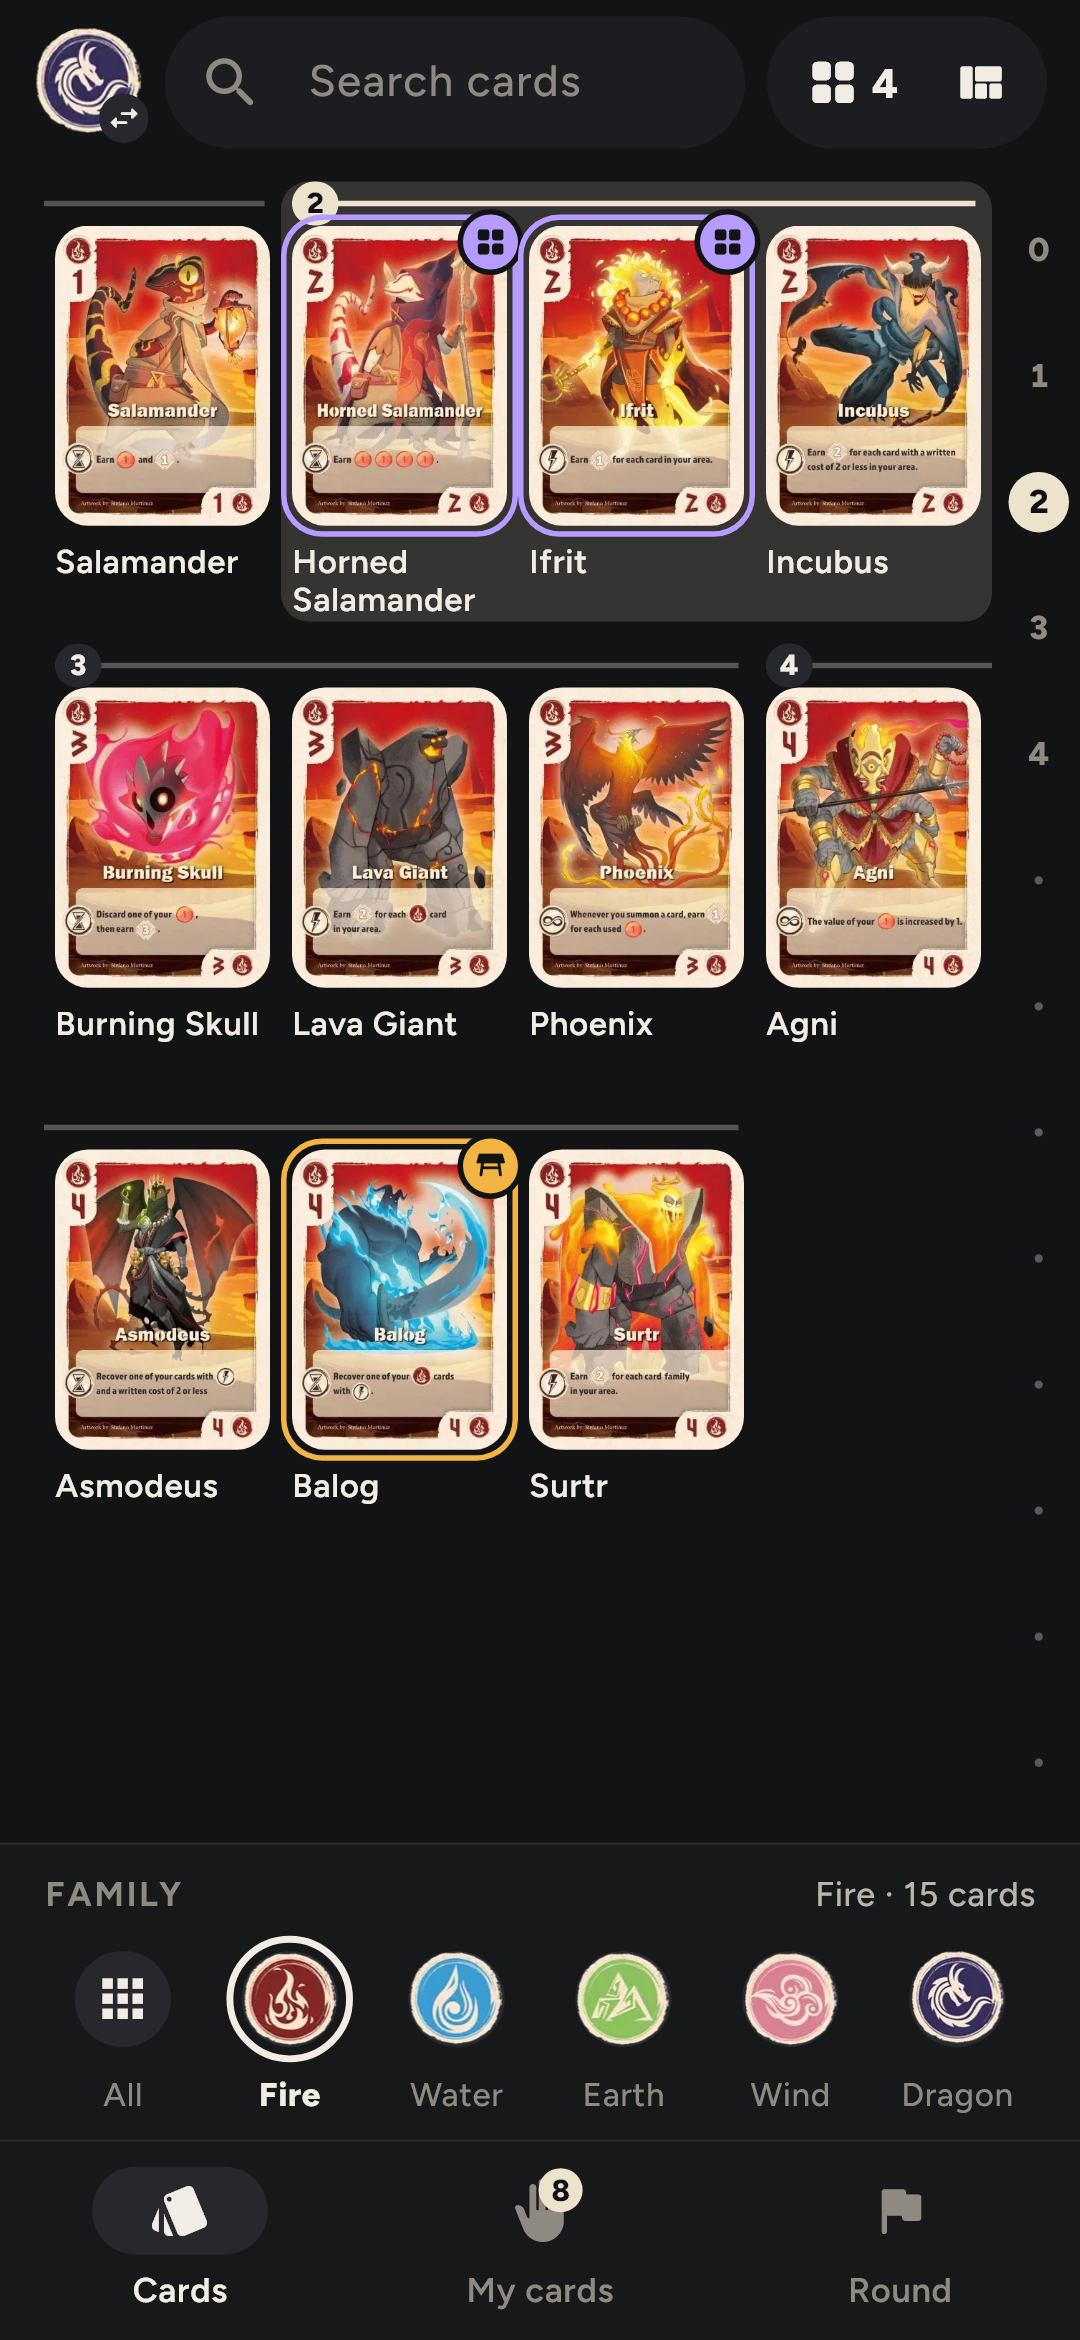
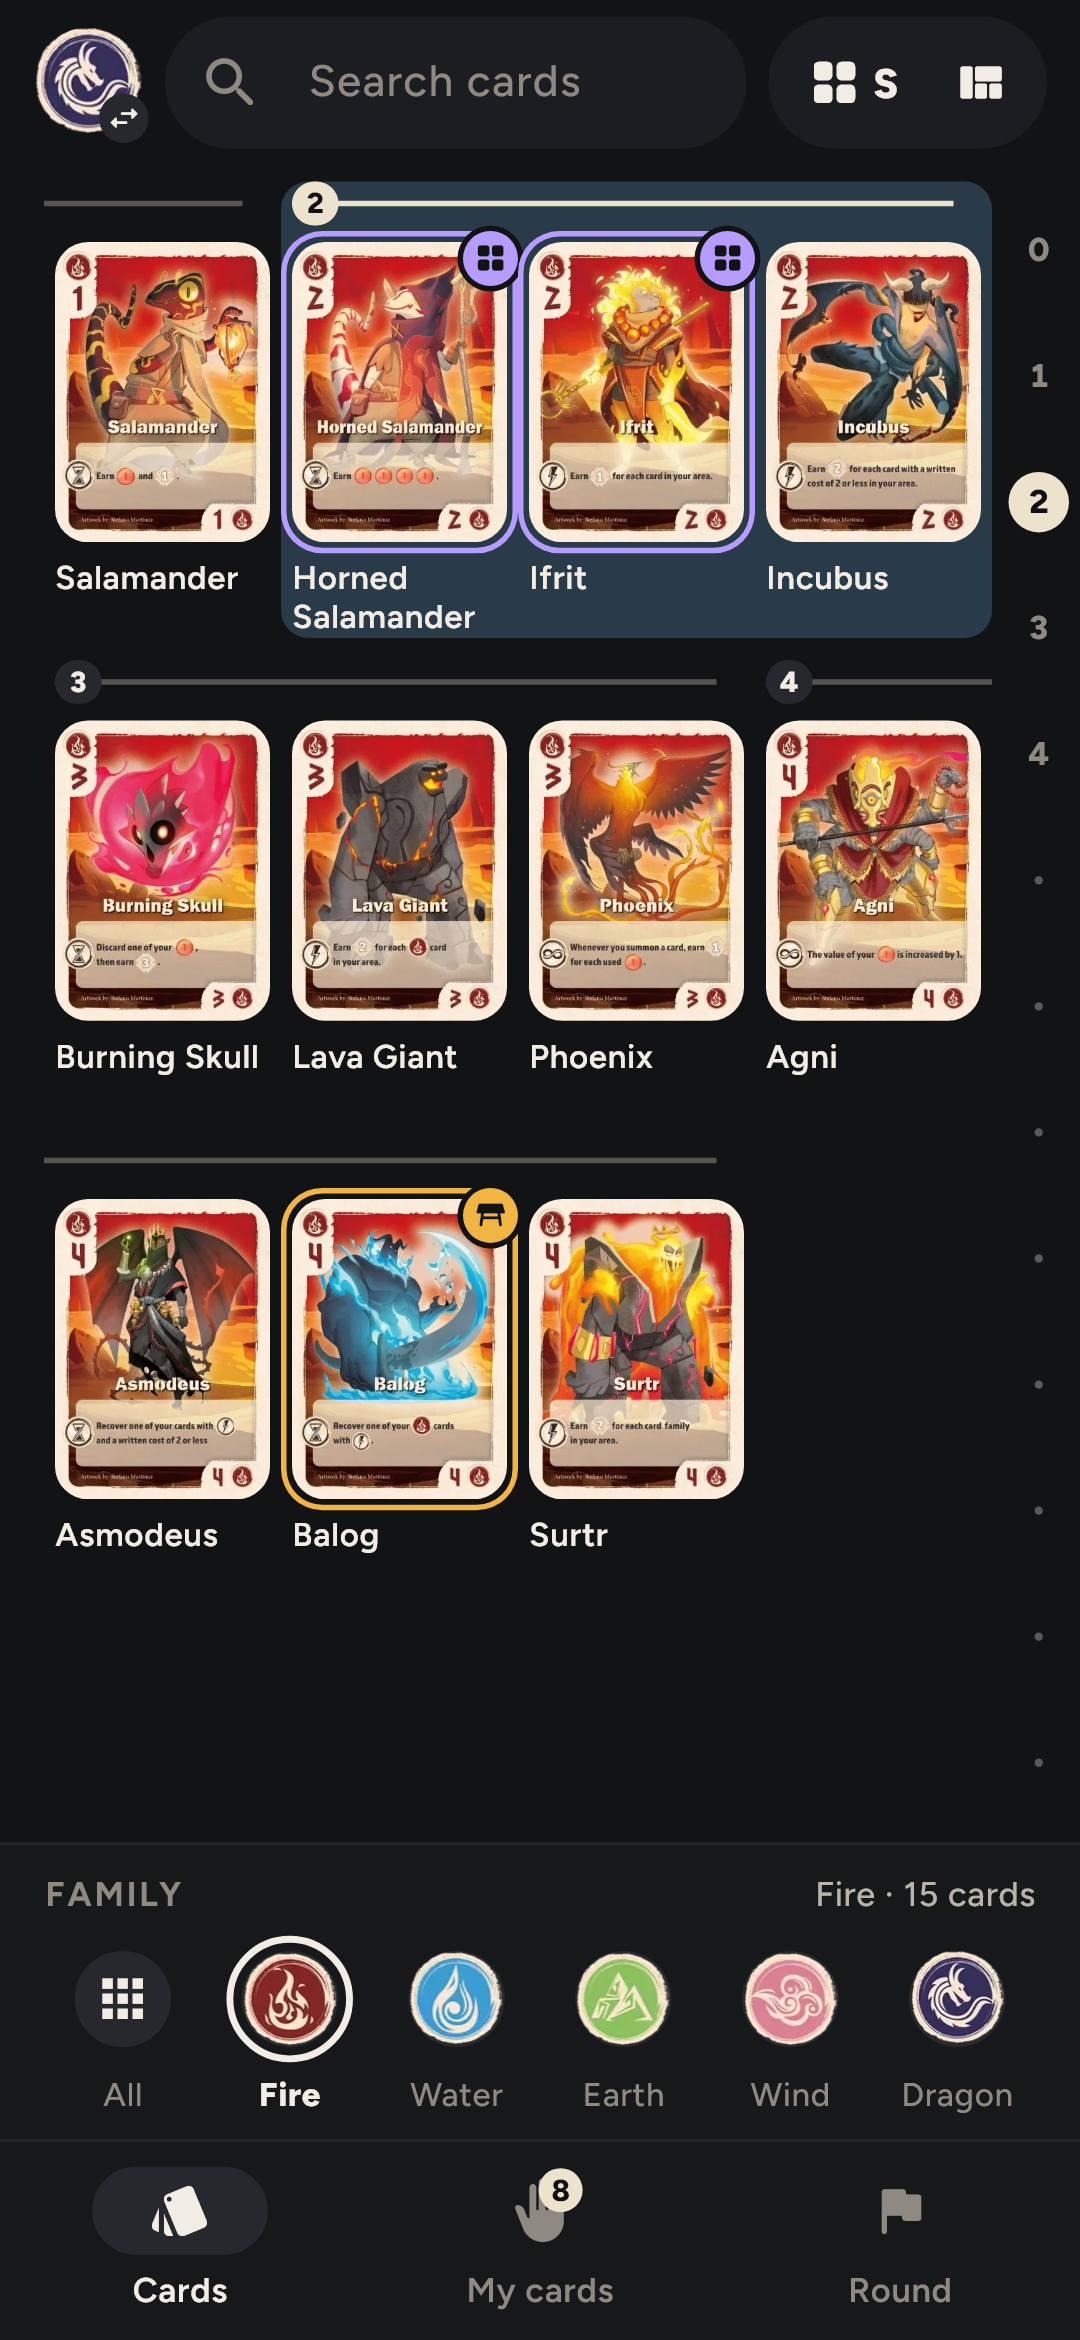
feat: tighter cost groups, air under the ruler pills, blue highlight for the picked cost
Grouped layout: header 30 dp (was 36), group padding 6 dp, 4 dp between groups, and the
group border is now part of the section height, so a rail jump no longer leaves a sliver
of the previous header showing. Flowing layout: the ruler strip is 22 dp so the number
pill clears the card by 6 dp, and a run's line stops 14 dp before the cell edge, inside the
card's rounded corner. The picked cost sits on a sky-blue band / panel (Palette.highlight)
instead of the faint cream tint.

Changed region(s): [[0.0306, 0.0624, 0.9167, 0.6863], [0.7944, 0.0312, 0.825, 0.0624]]

diff --git a/lib/blocks/gallery_block.dart b/lib/blocks/gallery_block.dart
@@ -84,8 +84,8 @@ class GalleryBlock extends StatefulWidget {
 }
 
 class _GalleryBlockState extends State<GalleryBlock> {
-  static const _headerH = 36.0;
-  static const _sectionGap = 8.0;
+  static const _headerH = 30.0;
+  static const _sectionGap = 4.0;
 
   /// Grid padding; the right side plus the rail column make the 32 dp the rail owns.
   static const _pad = EdgeInsets.fromLTRB(16, 0, 4, 16);
@@ -363,7 +363,7 @@ class _GalleryBlockState extends State<GalleryBlock> {
             height: tileH,
             child: DecoratedBox(
               decoration: BoxDecoration(
-                color: p.accent.withValues(alpha: 0.16),
+                color: p.highlight.withValues(alpha: 0.22),
                 borderRadius: BorderRadius.horizontal(
                   left: Radius.circular(roundLeft ? 10 : 0),
                   right: Radius.circular(roundRight ? 10 : 0),
@@ -403,7 +403,9 @@ class _GalleryBlockState extends State<GalleryBlock> {
       slivers: [
         SliverPadding(
           padding: _pad.copyWith(top: top),
-          sliver: SliverToBoxAdapter(child: Stack(clipBehavior: Clip.none, children: [...band, grid])),
+          sliver: SliverToBoxAdapter(
+            child: Stack(clipBehavior: Clip.none, children: [...band, grid]),
+          ),
         ),
         SliverToBoxAdapter(child: SizedBox(height: tail)),
       ],
@@ -473,6 +475,7 @@ class _GalleryBlockState extends State<GalleryBlock> {
       final h =
           _headerH +
           _groupPad.vertical +
+          2 * _groupBorder +
           ReflowGrid.heightFor(items.length, innerW, columns, aspect: spec.cardAspect, extra: extra) +
           _sectionGap;
       _sectionSpans[k] = [(y, y + h)];
@@ -517,7 +520,8 @@ class _GalleryBlockState extends State<GalleryBlock> {
   }
 
   /// Grouped layout: the padding every section container keeps, picked or not.
-  static const _groupPad = EdgeInsets.symmetric(vertical: 8, horizontal: 6);
+  static const _groupPad = EdgeInsets.symmetric(vertical: 6, horizontal: 6);
+  static const _groupBorder = 1.5;
 
   Widget _scrollWatch(Widget child) =>
       NotificationListener<UserScrollNotification>(onNotification: _onUserScroll, child: child);
@@ -547,7 +551,12 @@ class _FlowCell extends StatelessWidget {
   final bool endsRun;
   final bool picked;
 
-  static const rulerH = 16.0;
+  /// The strip: a 16 dp pill (or line) plus 6 dp of air before the card, so nothing touches.
+  static const pillH = 16.0;
+  static const rulerH = pillH + 6;
+
+  /// A run ends this far before the cell edge: well inside the card's rounded corner.
+  static const tailGap = 14.0;
 
   @override
   Widget build(BuildContext context) {
@@ -563,8 +572,8 @@ class _FlowCell extends StatelessWidget {
             children: [
               Positioned(
                 left: label == null ? 0 : _GalleryBlockState._flowInset / 2,
-                right: endsRun ? 6 : 0,
-                top: rulerH / 2 - 1,
+                right: endsRun ? tailGap : 0,
+                top: pillH / 2 - 1,
                 height: 2,
                 child: ColoredBox(color: line),
               ),
@@ -574,12 +583,12 @@ class _FlowCell extends StatelessWidget {
                   top: 0,
                   child: Container(
                     key: Key('cost-pill-$label'),
-                    height: rulerH,
+                    height: pillH,
                     padding: const EdgeInsets.symmetric(horizontal: 5),
                     alignment: Alignment.center,
                     decoration: BoxDecoration(
                       color: picked ? p.accent : p.surface2,
-                      borderRadius: BorderRadius.circular(rulerH / 2),
+                      borderRadius: BorderRadius.circular(pillH / 2),
                     ),
                     child: Text(
                       label!,
@@ -621,9 +630,12 @@ class _SectionPanel extends StatelessWidget {
       duration: context.read<Settings>().anim(const Duration(milliseconds: 200)),
       padding: _GalleryBlockState._groupPad,
       decoration: BoxDecoration(
-        color: active ? p.accent.withValues(alpha: 0.10) : null,
+        color: active ? p.highlight.withValues(alpha: 0.14) : null,
         borderRadius: BorderRadius.circular(14),
-        border: Border.all(color: active ? p.accent.withValues(alpha: 0.55) : Colors.transparent, width: 1.5),
+        border: Border.all(
+          color: active ? p.highlight.withValues(alpha: 0.7) : Colors.transparent,
+          width: _GalleryBlockState._groupBorder,
+        ),
       ),
       child: child,
     );
@@ -639,9 +651,9 @@ class _SectionHeader extends SliverPersistentHeaderDelegate {
   final bool active;
 
   @override
-  double get minExtent => 36;
+  double get minExtent => _GalleryBlockState._headerH;
   @override
-  double get maxExtent => 36;
+  double get maxExtent => _GalleryBlockState._headerH;
 
   @override
   Widget build(BuildContext context, double shrinkOffset, bool overlapsContent) {
@@ -654,10 +666,7 @@ class _SectionHeader extends SliverPersistentHeaderDelegate {
             height: 20,
             padding: const EdgeInsets.symmetric(horizontal: 8),
             alignment: Alignment.center,
-            decoration: BoxDecoration(
-              color: active ? p.accent : p.surface2,
-              borderRadius: BorderRadius.circular(10),
-            ),
+            decoration: BoxDecoration(color: active ? p.accent : p.surface2, borderRadius: BorderRadius.circular(10)),
             child: Text(
               label,
               style: TextStyle(
@@ -670,11 +679,12 @@ class _SectionHeader extends SliverPersistentHeaderDelegate {
             ),
           ),
           const SizedBox(width: 8),
-          Expanded(
-            child: Container(height: 1.5, color: active ? p.accent.withValues(alpha: 0.5) : p.surface2),
-          ),
+          Expanded(child: Container(height: 1.5, color: active ? p.accent.withValues(alpha: 0.5) : p.surface2)),
           const SizedBox(width: 8),
-          Text(count, style: T.caption.copyWith(color: p.muted, fontWeight: FontWeight.w500)),
+          Text(
+            count,
+            style: T.caption.copyWith(color: p.muted, fontWeight: FontWeight.w500),
+          ),
         ],
       ),
     );
@@ -807,7 +817,10 @@ class _SectionRailState extends State<_SectionRail> {
                               : Container(
                                   width: 3,
                                   height: 3,
-                                  decoration: BoxDecoration(color: p.muted.withValues(alpha: 0.6), shape: BoxShape.circle),
+                                  decoration: BoxDecoration(
+                                    color: p.muted.withValues(alpha: 0.6),
+                                    shape: BoxShape.circle,
+                                  ),
                                 ),
                         ),
                       ),
@@ -878,12 +891,7 @@ class _SectionRailState extends State<_SectionRail> {
 
 /// Single-select option dock at the bottom, in thumb reach.
 class _FilterDock extends StatelessWidget {
-  const _FilterDock({
-    required this.filter,
-    required this.selected,
-    required this.summary,
-    required this.onPick,
-  });
+  const _FilterDock({required this.filter, required this.selected, required this.summary, required this.onPick});
   final FilterSpec filter;
   final Object? selected;
   final String summary;

diff --git a/lib/core/theme.dart b/lib/core/theme.dart
@@ -27,6 +27,10 @@ class Palette extends ThemeExtension<Palette> {
   /// the My cards total badge, the Next button. Zone colors mean zones only.
   final Color accent;
 
+  /// A light, colourful tint for the picked cost's cards (band in the flowing grid, panel in
+  /// the grouped one). Sky blue: not one of the three zone colours, and visible on dark art.
+  Color get highlight => bg == dark.bg ? const Color(0xFF7CC4FF) : const Color(0xFF2F7FD6);
+
   /// The checklist card is parchment in both themes.
   static const parchment = Color(0xFFF3E9D6);
   static const ink = Color(0xFF1E1B16);
